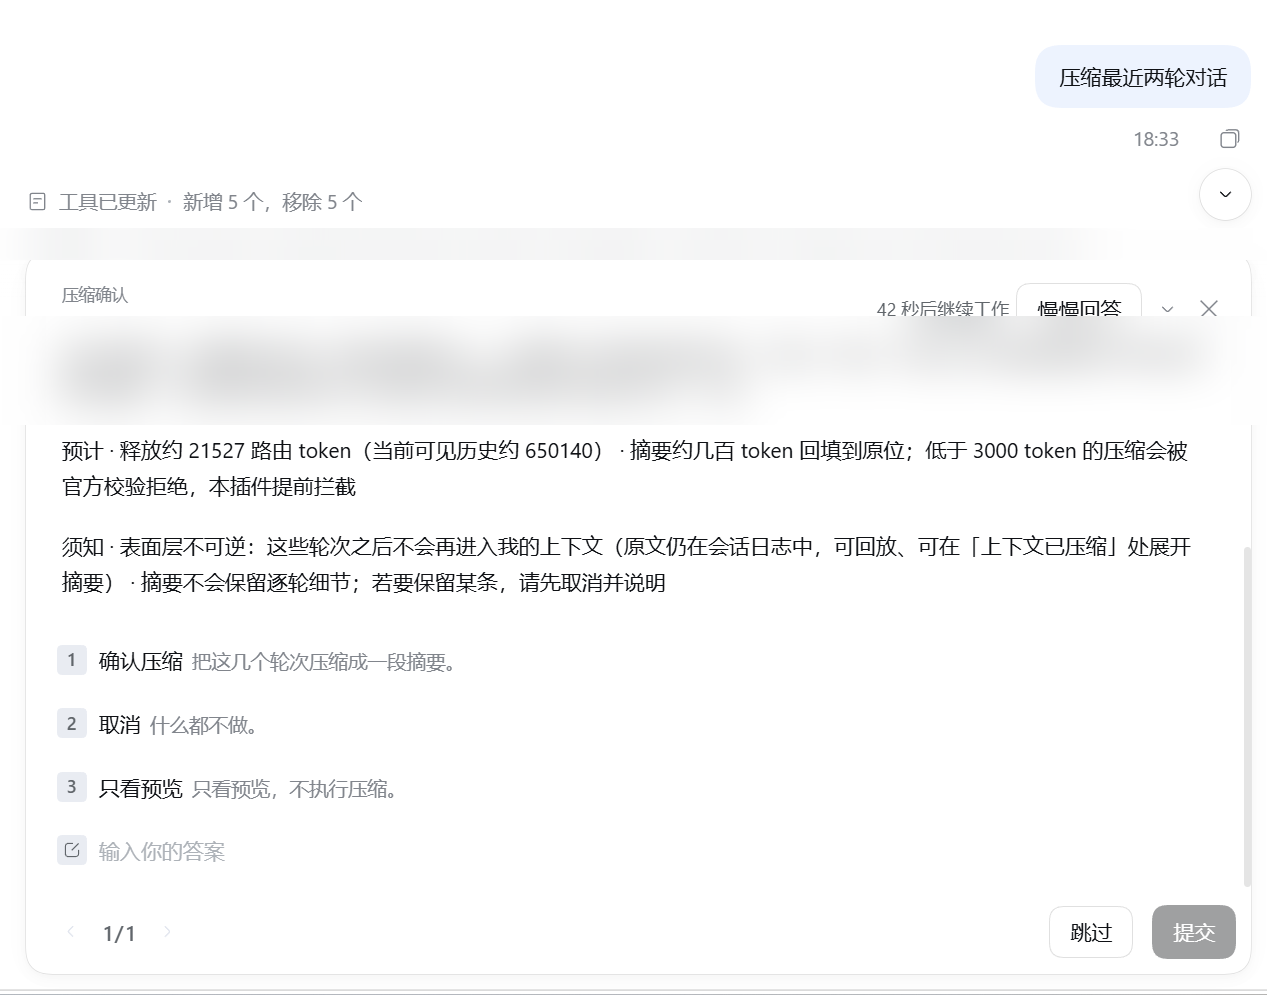
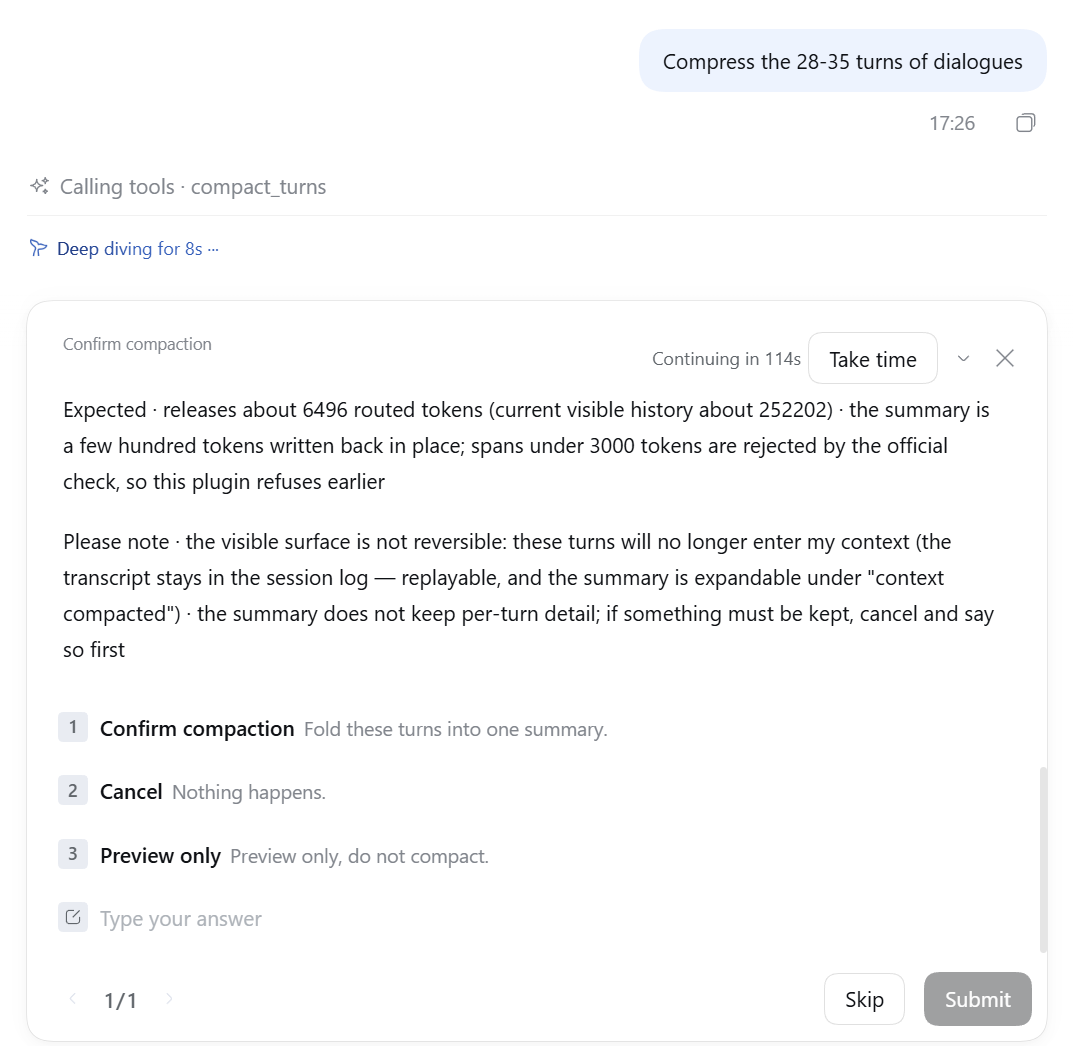
docs: replace the README screenshots with English-UI captures (session text redacted)

diff --git a/README.md b/README.md
@@ -18,17 +18,17 @@ Built on DeepSeek Harness — an unofficial community plugin, not affiliated wit
 
 ## Screenshots
 
-**1 · The `+` menu → 指令 *（Commands）* → 选择性压缩 *（Selective compaction）*** — the plugin also lives where every DSH command lives.
+**1 · The `+` menu → Commands → *Selective compaction*** — the plugin also lives where every DSH command lives.
 
 ![The + menu showing the 选择性压缩 command](docs/images/menu.png)
 
-**2 · The composer panel** (labels are Chinese: 压缩 = compact) — session overview, token estimates for the last 1/2/3/5 turns, an explicit
-turn range, and the turn table. Actions use a two-step confirm that auto-cancels after 5 seconds.
+**2 · The composer panel** — session overview, token estimates for the last 1/2/3/5 turns, an explicit turn range, and the turn table.
+Actions use a two-step confirm that auto-cancels after 5 seconds.
 
 ![The selective compaction panel with quick picks and a turn table](docs/images/panel.png)
 
 **3 · The approval card (tool path)** — exact range, node count and estimated release; nothing changes
-until a human presses "确认压缩" *（Confirm compaction）*.
+until a human presses *Confirm compaction*.
 
 ![The confirmation card shown before a fold](docs/images/approval.png)
 
